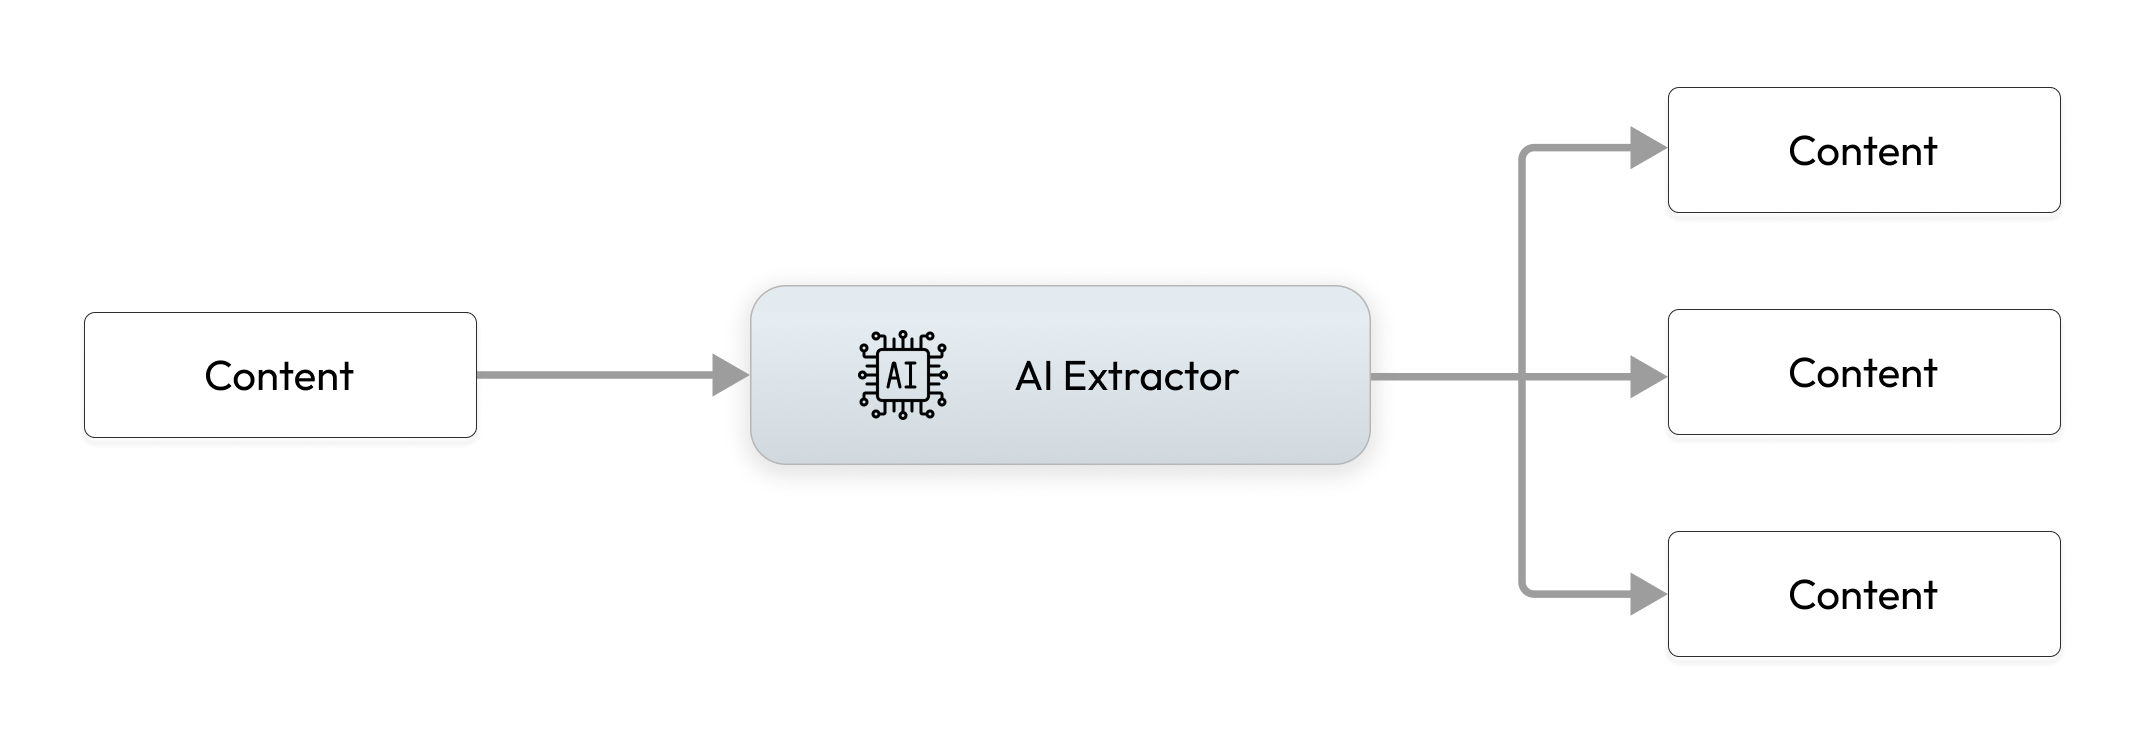
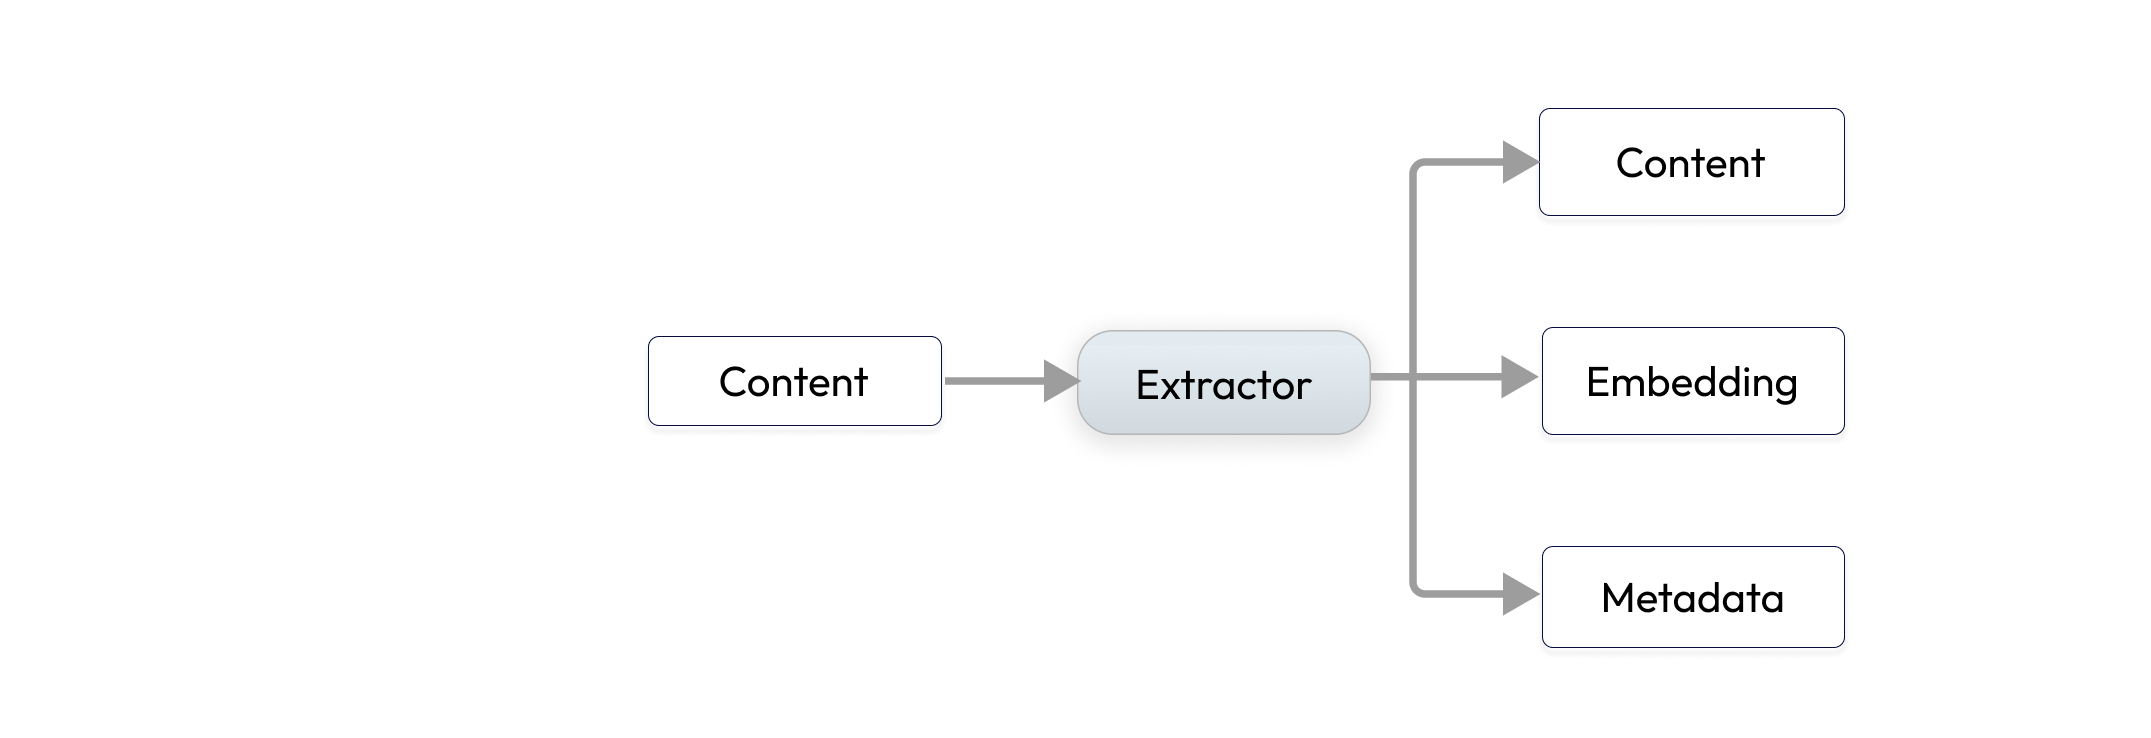
update docs

diff --git a/docs/docs/apis/develop_extractors.md b/docs/docs/apis/develop_extractors.md
@@ -11,7 +11,7 @@ indexify extractor new --path my-extractor
 ```
 
 ## Implement the Extractor 
-The template creates a `MyExtractor` class in the `custom_extractor.py` file. Implement the extract method, which accepts a `Content` and prouduces a list of `Content`, since every content can hypothetically produce multiple content. The valid output features are `Embedding` and `JSON`. Chunks of document goes in the `Content` in the data payload of the `Content`. 
+The template creates a `MyExtractor` class in the `custom_extractor.py` file. Implement the extract method, which accepts a `Content` and prouduces a list of `Content`. The output content is usually some form of transformation of the input to the extractors and some features related to it. The valid output features are `Embedding` and `JSON`. Chunks of document goes in the `Content` in the data payload of the `Content`. 
 
 ```python
 def extract(self, content: Content) -> List[Content]:
@@ -35,17 +35,18 @@ In this example we iterate over a list of content, chunk each content, run a NER
 
     Use any python or native system dependencies in your extractors because we can package them in a container to deploy them to production.
 
-Implement the schemas method to contain the output schema of the extractor. Name each feature and provide the type of the feature. For embedding types use the `EmbeddingSchema` type, for any other metadata just use the json schema of the output feature.
 
-```python
-def schemas(cls) -> ExtractorSchema:
-    """
-    Returns schema of features for indexing.
-    """
-    return ExtractorSchema(
-        features={"text_embedding": EmbeddingSchema(distance_metric="cosine", dim=3)},
-    )
-```
+## Extractor Metadata
+Add a name to your extractor, a description of what it does and python and system dependencies. These goes in attributes/properties of your Extractor class.
+** name ** - The name of the extractor. We use the name of the extractor also to name the container package.
+
+** description ** - Long description of the extractor
+
+** python_dependencies ** -  List of python dependencies that you are importing in the extractor. Example - `["torch", "transformers"]`
+
+** system_dependencies ** - List of system dependencies of the extractor such as any native dependencies of the model or packages you are using. Example - `["curl", "protobuf-compiler"]`
+
+** input_mime_types ** - The list of input data types the extractor can handle. We use standard mime types as the API. Default is `["text/plain]`, and you can override or specify which ones your extractor supports from the [list here](https://developer.mozilla.org/en-US/docs/Web/HTTP/Basics_of_HTTP/MIME_types/Common_types)
 
 #### Test the extractor locally
 
